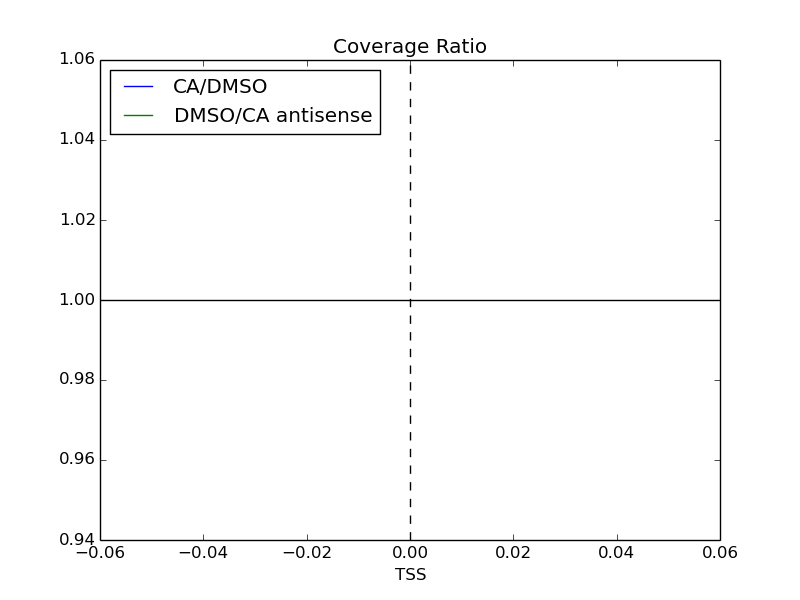
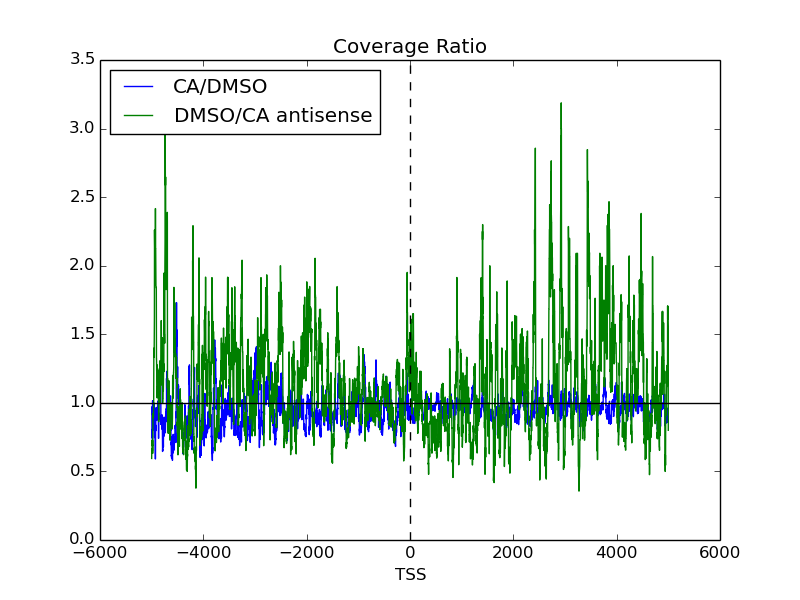
updates

diff --git a/src/metagene_TSS.py b/src/metagene_TSS.py
@@ -107,18 +107,18 @@ def run(file1,file2,file3):
             maximum = np.amax(DMSOdict[gene][i])
             if maximum != 0:
                 DMSOarray[i] += DMSOdict[gene][i]/maximum
-            maximumanti = np.amax(DMSOantidict[gene][i])
+            maximumanti = np.amin(DMSOantidict[gene][i])
             if maximumanti != 0:
-                DMSOantiarray[i] += DMSOantidict[gene][i]/maximumanti
+                DMSOantiarray[i] += -DMSOantidict[gene][i]/maximumanti
             
     for gene in CAdict:
         for i in range(len(CAdict[gene])):
             maximum = np.amax(CAdict[gene][i])
             if maximum != 0:
                 CAarray[i] += CAdict[gene][i]/maximum
-            maximumanti = np.amax(CAantidict[gene][i])
+            maximumanti = np.amin(CAantidict[gene][i])
             if maximumanti != 0:
-                CAantiarray[i] += CAantidict[gene][i]/maximumanti
+                CAantiarray[i] += -CAantidict[gene][i]/maximumanti
             
     F = plt.figure()
     x1 = np.arange(-1000,1000,1)
